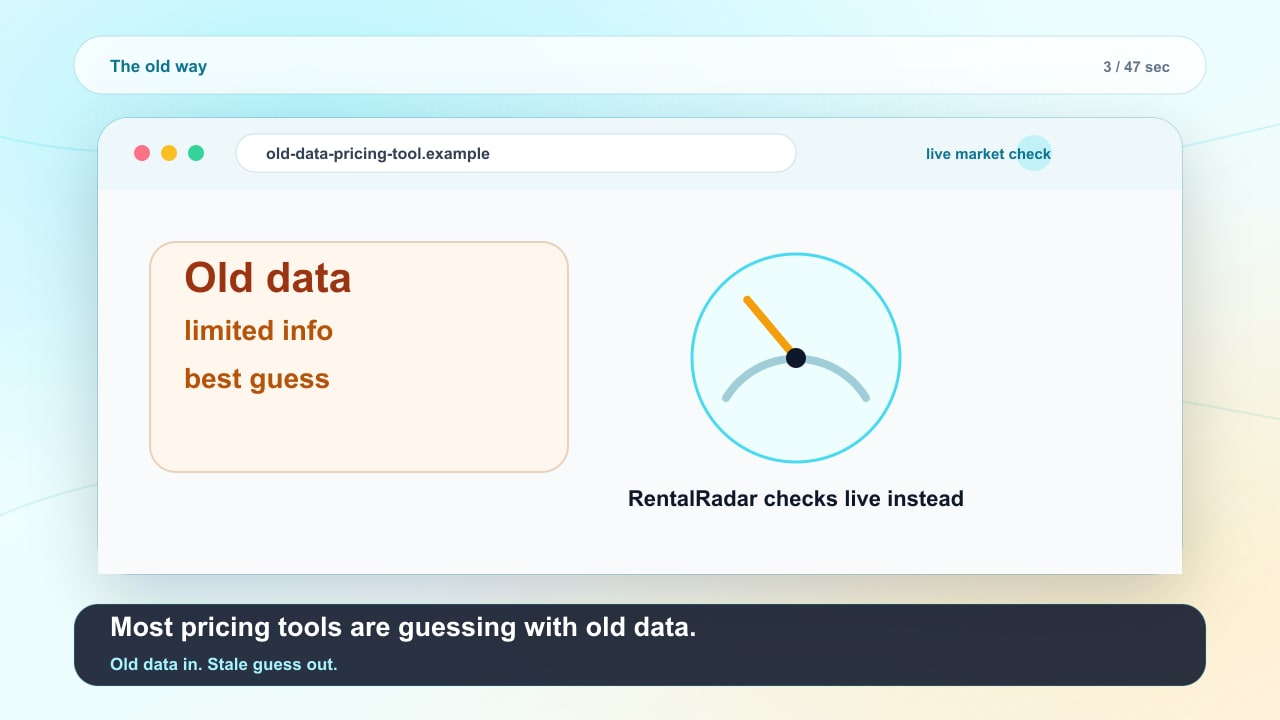
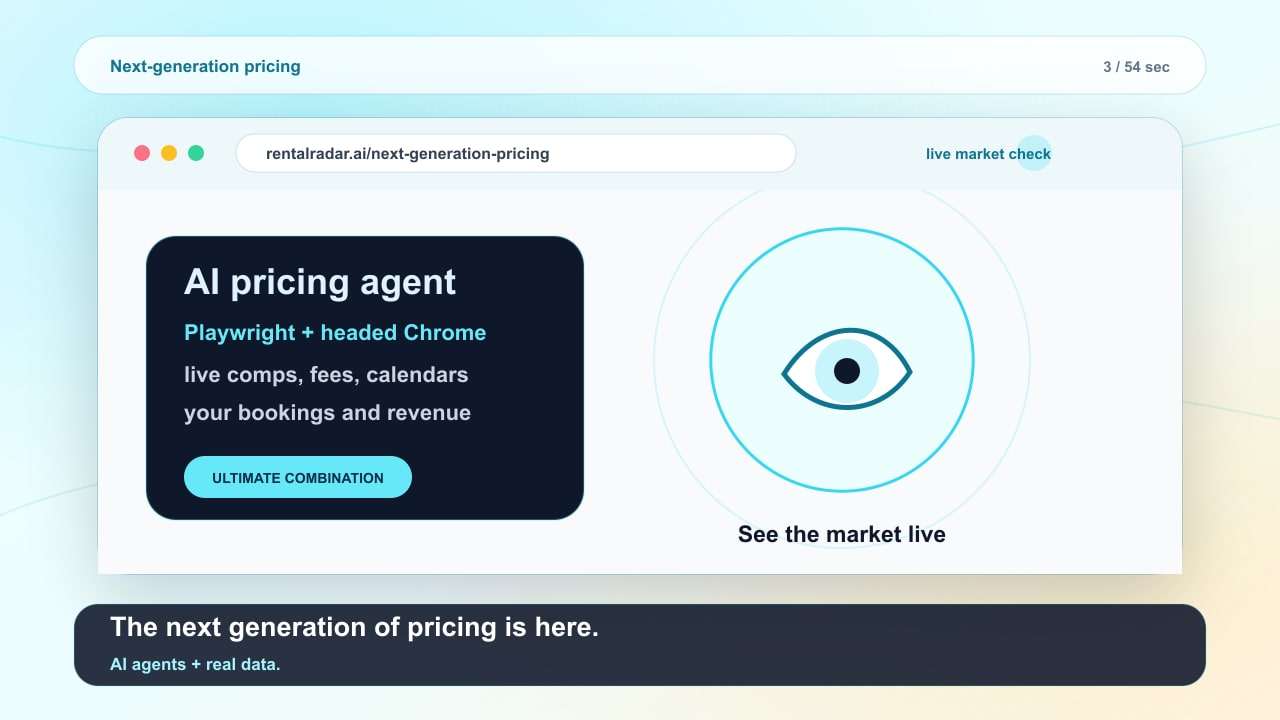
Refresh pricing explainer with ElevenLabs voiceover

diff --git a/apps/web/src/app/components/pricing-superiority-video.tsx b/apps/web/src/app/components/pricing-superiority-video.tsx
@@ -34,15 +34,16 @@ export function PricingSuperiorityVideo() {
           <div>
             <p className="flex items-center justify-center gap-2 text-sm font-semibold uppercase tracking-[0.22em] text-cyan-700">
               <BrainCircuit className="size-4" />
-              47-second overview
+              54-second overview
             </p>
             <h2 className="mx-auto mt-4 max-w-3xl text-balance text-4xl font-semibold tracking-normal text-slate-950 sm:text-6xl">
-              Why RentalRadar pricing wins.
+              The next generation of pricing is here.
             </h2>
           </div>
           <p className="mx-auto mt-5 max-w-3xl text-lg leading-8 text-slate-600">
-            Better pricing starts with the ultimate evidence: live market checks by AI agents plus your real booking
-            performance. The result is smarter rates, higher revenue, and total confidence in every decision.
+            RentalRadar combines Playwright-powered AI agents running headed Chrome with real booking performance,
+            occupancy, pace, and revenue data. It is live browser intelligence plus the numbers that prove what is
+            actually booking.
           </p>
           <div className="mt-6 inline-flex rounded-full border border-cyan-900/10 bg-cyan-50 px-5 py-2 text-sm font-semibold text-cyan-900">
             See -&gt; Decide -&gt; Explain -&gt; Push